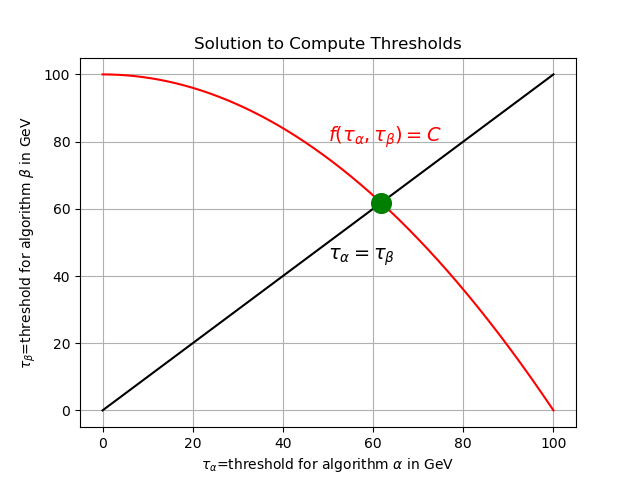
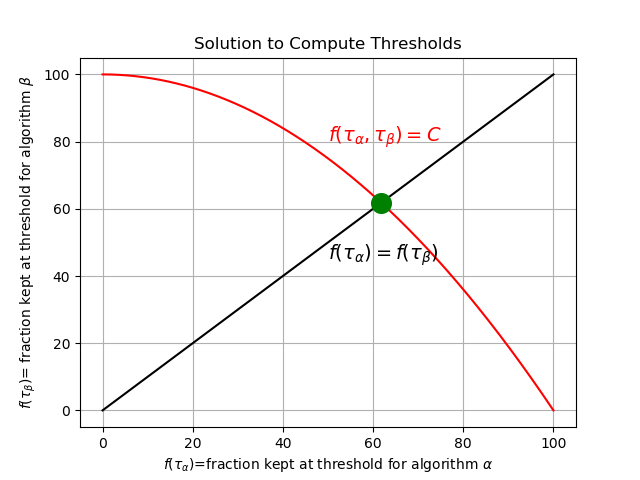
regenerated the plot, introducing the imposed constraint as a constraint on the fraction of events kept as being the same for the two axes

diff --git a/Honors_Thesis/plotting_scripts/combined_constraint_problem.py b/Honors_Thesis/plotting_scripts/combined_constraint_problem.py
@@ -6,13 +6,13 @@ if __name__ == "__main__":
     y2 = -x**2/100 + 100
     sol = 50 * (np.sqrt(5.0)-1.0)
     plt.grid(True)
-    plt.xlabel(r"$\tau_{\alpha}$=threshold for algorithm $\alpha$ in GeV")
-    plt.ylabel(r"$\tau_{\beta}$=threshold for algorithm $\beta$ in GeV")
+    plt.xlabel(r"$f(\tau_{\alpha})$=fraction kept at threshold for algorithm $\alpha$")
+    plt.ylabel(r"$f(\tau_{\beta})$= fraction kept at threshold for algorithm $\beta$")
     plt.scatter(sol,sol,c='g',s=200,zorder=4)
     plt.plot(x,y,label='Individual Fractions are Equal Constraint',color='black')
     plt.plot(x,y2,label='Possibility Production Frontier',color='red')
     plt.text(50,80,r"$f(\tau_{\alpha},\tau_{\beta})=C$",fontsize=14,color='red')
-    plt.text(50,45,r"$\tau_{\alpha}=\tau_{\beta}$",fontsize=14)
+    plt.text(50,45,r"$f(\tau_{\alpha})=f(\tau_{\beta})$",fontsize=14)
     plt.title("Solution to Compute Thresholds") 
     plt.savefig("../img/combined_constraint_plot.png",format='png',dpi=100)
     plt.show()
